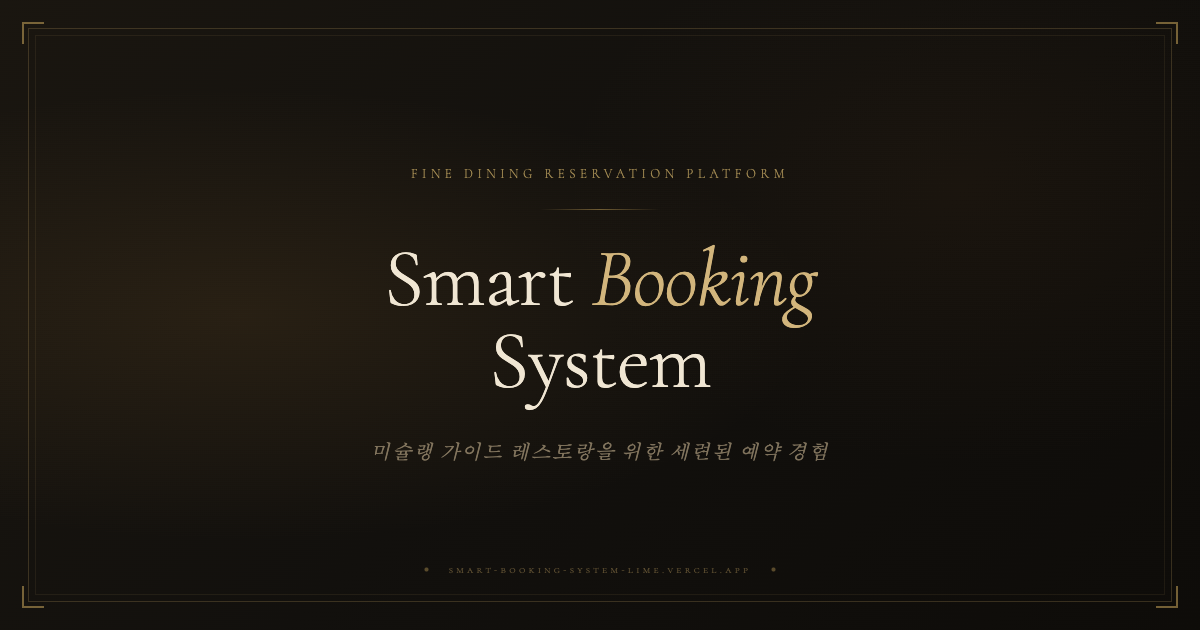
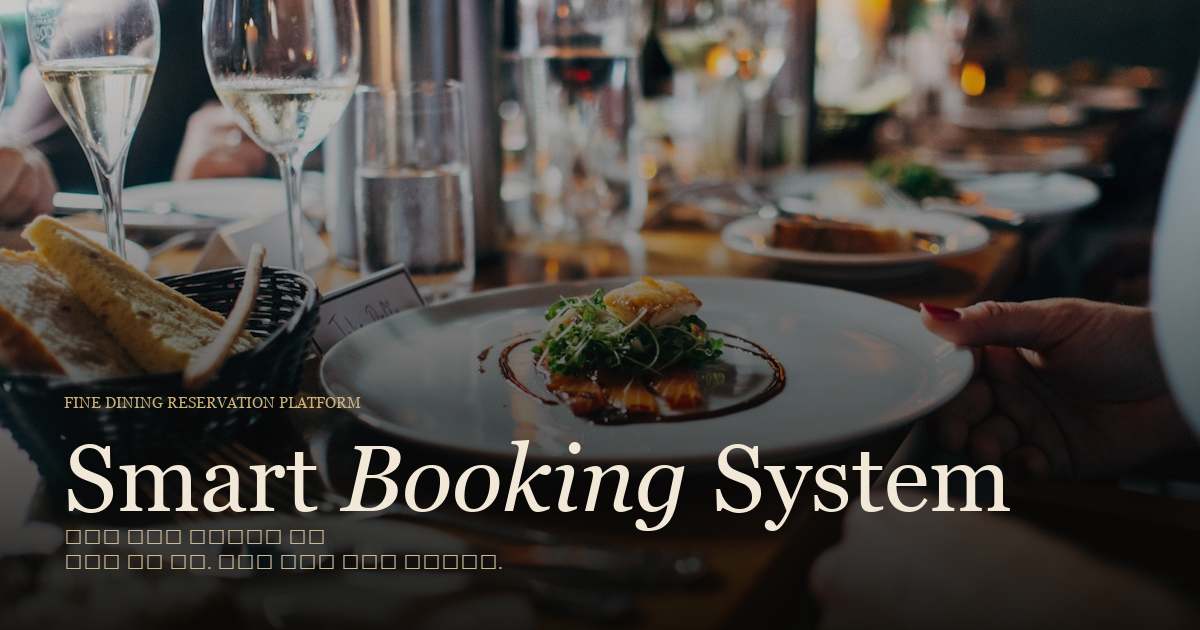
Update OG image to food-photo style + refresh README
OG image: fine dining background (Unsplash), dark gradient overlay,
bottom-left text layout matching site hero — "Smart Booking System"
with italic Booking, eyebrow, Korean description.

README: full rewrite covering all current features — rolling slots,
auto-waitlist, admin CRUD, OG preview, env vars, project structure.

diff --git a/README.md b/README.md
@@ -1,97 +1,101 @@
 # Smart Booking System
 
-**미슐랭 가이드 레스토랑을 위한 파인다이닝 예약 플랫폼.**  
-이메일 하나면 누구나 바로 예약할 수 있습니다.
+미슐랭 파인다이닝 레스토랑을 위한 풀스택 예약 플랫폼입니다.
 
-**👉 [smart-booking-system-lime.vercel.app](https://smart-booking-system-lime.vercel.app)**
+**Live →** [smart-booking-system-lime.vercel.app](https://smart-booking-system-lime.vercel.app)
 
 ---
 
 ## 주요 기능
 
+### 예약 플로우
+| 단계 | 설명 |
+|------|------|
+| 이메일 인증 | 예약 전 6자리 코드 인증 (10분 유효) |
+| 날짜 · 시간 선택 | 오늘부터 7일 롤링 윈도우, 지난 시간 자동 비활성화 |
+| 코스 자동 지정 | 12:00 · 13:00 → 런치, 18:00 이후 → 디너 |
+| 인원 선택 | 최대 6명 |
+| 테이블 배정 | 최적 테이블 조합 알고리즘 (단일 우선, 최대 3테이블 조합) |
+| 결제 | 인당 보증금 모의 결제 (10분 유효) |
+| 예약 확정 | 이메일 확인 및 예약 완료 화면 |
+
+### 만석 시 자동 대기 등록
+- 슬롯이 꽉 찬 경우 별도 이동 없이 **즉시 대기 등록 흐름**으로 전환
+- 대기 순서가 되면 클레임 링크를 이메일로 발송 (3분 유효)
+- 클레임 수락 → 결제 완료 → 예약 확정
+
+### 내 예약 조회
+- 이메일로 본인 예약 및 대기 상태를 언제든지 확인 가능
+
+### 슬롯 자동 롤링
+- 매일 자정 하루치 슬롯을 자동 추가해 항상 7일치 예약 가능
+- Vercel 서버리스 환경에서는 슬롯 조회 첫 요청 시 자동 처리
+
+### 어드민 대시보드 (`/admin`)
 | 기능 | 설명 |
-|---|---|
-| **코스 자동 배정** | 런치 슬롯(12:00·13:00) → Lunch Course, 디너 슬롯(18:00·19:00·20:00) → Dinner Course 자동 선택 |
-| **테이블 배정** | 인원에 맞는 테이블 자동 조합 (단일 우선, 최대 3개 조합) |
-| **이메일 인증** | 예약 전 6자리 코드로 본인 인증 |
-| **보증금 결제** | 인당 100,000원 보증금 결제 후 예약 확정 |
-| **예약 확인 이메일** | 결제 완료 시 예약 정보 이메일 자동 발송 |
-| **중복 예약 차단** | 인증 후 이미 예약된 날짜·시간 슬롯 자동 비활성화 |
-| **즉시 대기 등록** | 만석 시 별도 폼 없이 현재 입력한 정보로 바로 대기열 등록 |
-| **대기열 엔진** | 취소 발생 시 대기자에게 순차 알림 → 클레임 → 결제 → 확정 |
-| **예약 가능 기간** | 오늘부터 7일치, 지난 시간대는 자동으로 숨김 |
-| **관리자 대시보드** | 식당·테이블·슬롯 관리, 예약 취소, 대기열 수동 발송 |
+|------|------|
+| 레스토랑 관리 | 생성 · 삭제 (관련 슬롯 · 예약 · 대기열 cascade 삭제) |
+| 테이블 · 슬롯 추가 | 레스토랑별 테이블 및 날짜/시간 슬롯 생성 |
+| 슬롯별 예약 현황 | 오늘 이후 슬롯만 표시, 예약별 취소/삭제 버튼 |
+| 전체 삭제 | 예약 + 대기 요청 + 클레임 + 오픈 슬롯 + 로그 일괄 삭제 |
+| 대기 요청 관리 | 개별 삭제 시 연관 클레임 · 오픈 슬롯 자동 정리 |
+| 대기열 강제 발송 | 기존 오퍼가 있어도 재발송 가능 |
+| 만료 검사 | 클레임 · 결제 TTL 수동 실행 |
+| 홈으로 버튼 | 관리자 페이지에서 예약 홈으로 바로 이동 |
 
 ---
 
-## 예약 플로우
+## 예약 상태 머신
 
 ```
-날짜·시간 선택  →  코스·인원 선택  →  이메일 인증  →  보증금 결제  →  예약 확정
-                                                              ↓ (만석인 경우)
-                                                       만석 안내 화면 자동 전환
-                                                              ↓
-                                               [다른 시간 선택] 또는 [대기열 등록]
-                                                              ↓
-                                                       대기 등록 완료 (대기 번호 발급)
-```
-
-- 런치 슬롯 선택 시 → Lunch Tasting Course (320,000원/인) 자동 배정, 디너 선택 불가
-- 디너 슬롯 선택 시 → Dinner Tasting Course (420,000원/인) 자동 배정, 런치 선택 불가
-- 최대 6명까지 예약 가능
-- 이메일 인증 후 이미 예약된 날짜는 "예약됨" 표시와 함께 선택 불가
-
----
-
-## 대기열 플로우
-
-```
-예약 만석 → 대기 등록 (이름·이메일·인원 자동 입력)
-         → 예약 취소 발생
-         → 대기자에게 오퍼 이메일 발송 (클레임 링크 포함)
-         → /claim/{token} 에서 수락
-         → /pay/{token} 에서 보증금 결제
-         → 예약 확정
+이메일 인증 → 날짜 / 시간 / 코스 / 인원 선택 → 예약 요청
+  ├─ 잔여석 있음 → 결제 대기(10분) → 확정
+  └─ 만석 → 대기 등록 → 오퍼 발송(3분) → 수락 → 결제 → 확정
 ```
 
 ---
 
-## 관리자
+## 기술 스택
 
-**URL** → [`/admin`](https://smart-booking-system-lime.vercel.app/admin) · **토큰** → `admin123`
-
-- 식당·테이블·슬롯 생성
-- 예약 취소 및 대기열 수동 발송
-- 알림 로그 조회
+| 레이어 | 기술 |
+|--------|------|
+| Backend | FastAPI 0.115 · Python 3.12 |
+| ORM | SQLAlchemy 2.0 |
+| DB | Neon PostgreSQL (Vercel) · SQLite (로컬) |
+| Frontend | React 18 · Vite 5 (SPA) |
+| 배포 | Vercel (서버리스 Python) |
+| 스케줄러 | APScheduler 3.10 (로컬) · lazy daily tick (Vercel) |
+| 이메일 | SMTP / 콘솔 fallback |
 
 ---
 
 ## 로컬 실행
 
-Python 3.12와 [uv](https://docs.astral.sh/uv/) 필요.
-
 ```bash
-# 의존성 설치 및 백엔드 실행 (http://127.0.0.1:8000)
+# Backend
 uv sync
 uv run uvicorn app.main:app --reload
-```
+# → http://127.0.0.1:8000
 
-> 이메일 인증 코드는 SMTP 미설정 시 터미널에 출력됩니다.
-
-프론트엔드 개발 모드 (선택 사항):
-
-```bash
+# Frontend (개발 서버)
 cd frontend
 npm install
-npm run dev      # http://127.0.0.1:5173 — /api 요청은 :8000으로 프록시
+npm run dev
+# → http://127.0.0.1:5173
 ```
 
-프론트엔드 빌드:
+**환경 변수 (`.env` 또는 Vercel 대시보드)**
 
-```bash
-cd frontend && npm run build
-# → frontend/dist/ 생성, FastAPI가 자동 서빙
-```
+| 변수 | 기본값 | 설명 |
+|------|--------|------|
+| `DATABASE_URL` | SQLite | Neon PostgreSQL 연결 문자열 |
+| `ADMIN_TOKEN` | `admin123` | 관리자 인증 토큰 |
+| `APP_BASE_URL` | `http://127.0.0.1:8000` | 클레임 이메일 링크 base URL |
+| `DEPOSIT_PER_PERSON` | `100000` | 인당 보증금 (원) |
+| `CLAIM_TTL_SECONDS` | `180` | 대기 오퍼 유효 시간 (초) |
+| `PAYMENT_TTL_SECONDS` | `600` | 결제 유효 시간 (초) |
+| `MAX_RESERVATIONS_PER_SLOT` | `3` | 슬롯당 최대 예약 수 |
+| `SMTP_HOST` / `SMTP_*` | — | SMTP 설정 (생략 시 콘솔 출력) |
 
 ---
 
@@ -99,33 +103,17 @@ cd frontend && npm run build
 
 ```
 app/
-  main.py              # FastAPI 앱, 라우트, 시드 데이터 (7일치 슬롯 자동 생성)
-  engine.py            # 대기/클레임/결제 TTL 엔진, 중복 예약 처리
+  main.py              # FastAPI 라우터 · 시드 데이터 · 슬롯 롤링
+  engine.py            # 대기열 디스패치 · TTL 만료 · force 재발송
   table_assignment.py  # 테이블 조합 알고리즘
-  emailer.py           # SMTP 발송 (미설정 시 콘솔 출력)
-  models.py / schemas.py / db.py / config.py
+  models.py            # SQLAlchemy ORM 모델
+  schemas.py           # Pydantic 스키마
+  db.py                # DB 엔진 (NullPool for PostgreSQL)
+  config.py            # 환경 변수
+  emailer.py           # SMTP 발송
 frontend/src/
-  App.jsx              # React 전체 UI (단일 파일)
-  styles.css           # 럭셔리 디자인 시스템 (Cormorant Garamond)
-  dist/                # 빌드 결과물 — Git에 커밋되어 Vercel이 별도 빌드 없이 서빙
+  App.jsx              # React SPA (전체 뷰 단일 파일)
+  styles.css           # Cormorant Garamond 럭셔리 디자인 시스템
+frontend/public/
+  og-image.png         # Open Graph 링크 미리보기 이미지 (1200×630)
 ```
-
----
-
-## 환경 변수
-
-| 변수 | 기본값 | 설명 |
-|---|---|---|
-| `ADMIN_TOKEN` | `admin123` | 관리자 인증 토큰 |
-| `DEPOSIT_PER_PERSON` | `100000` | 인당 예약 보증금 (KRW) |
-| `CLAIM_TTL_SECONDS` | `180` | 대기 오퍼 수락 제한 시간 |
-| `PAYMENT_TTL_SECONDS` | `600` | 결제 제한 시간 |
-| `SMTP_HOST` / `SMTP_PORT` / `SMTP_USERNAME` / `SMTP_PASSWORD` | — | 이메일 발송 설정 |
-
----
-
-## 기술 스택
-
-- **Backend** — Python 3.12 · FastAPI · SQLAlchemy · SQLite · APScheduler
-- **Frontend** — React 18 · Vite · Cormorant Garamond (럭셔리 타이포그래피)
-- **Infra** — Vercel Serverless (Python runtime)